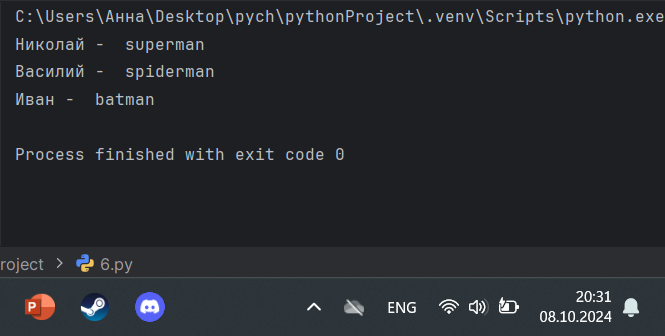
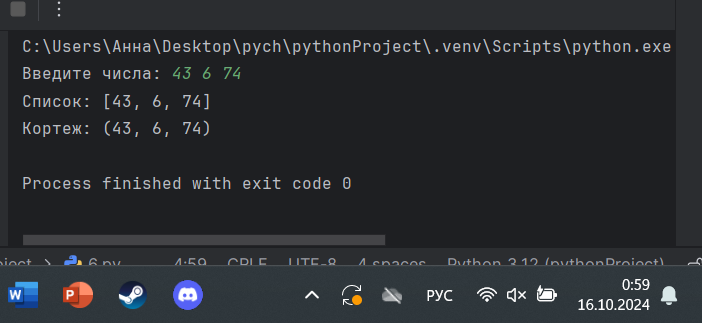
Шестой коммит

diff --git a/9.py b/9.py
@@ -1,15 +1,10 @@
-def superset(set_1, set_2):
-    if set_1 > set_2:
-        print(f'Объект {set_1} является чистым супермножеством')
-    elif set_1 == set_2:
-        print(f'Множества равны')
-    elif set_1 == set_2:
-        print(f'Объект {set_2} является чистым супермножеством')
-    else:
-        print('Супермножеств не обнаружено')
+line = input("Введите последовательность чисел: ")
+while len(line)<=15:
+    print("нужно минимум 15 символов.")
+    line = input("Введите последовательность чисел: ")
+def top_3_numbers(line):
+    line = list(map(int, line))
+    my_dict = {x: line.count(x) for x in range(10)}
+    print(my_dict)
 
-if __name__ == '__main__':
-    superset({1,8,3,5}, {3,5})
-    superset({1, 8, 3, 5}, {5, 3, 8, 1})
-    superset({3, 5}, {5, 3, 8, 1})
-    superset({90, 100}, {3, 5})
+top_3_numbers(line)

diff --git a/7.py b/7.py
@@ -1,5 +1,15 @@
-a = [-25.8, 86, 12.5, -56, 73.2, 0, 43, -91.5, 65.9, -7]
-a.sort()
-print('Отсортированный список:\n', a)
-a.pop(0)
-print('Отсортированный список без наименьшего элемента:\n', a)
+def tuple_remove(my_tuple, ch):
+    if ch in my_tuple:
+        my_tuple.remove(ch)
+    result_tuple = tuple(my_tuple)
+    print(result_tuple)
+
+if __name__ == "__main__":
+    x = input("Входные данные: ")
+    input_list = []
+    for k in x:
+        if k.isdigit():
+            input_list.append(int(k))
+    ch = input_list[len(input_list)-1]
+    input_list.pop()
+    tuple_remove(input_list, ch)

diff --git a/8.py b/8.py
@@ -1,11 +1,10 @@
-from random import randint
+line = input("Введите последовательность чисел: ")
+while len(line)<=15:
+    print("нужно минимум 15 символов.")
+    line = input("Введите последовательность чисел: ")
+def top_3_numbers(line):
+    line = list(map(int, line))
+    my_dict = {x: line.count(x) for x in range(10)}
+    print(my_dict)
 
-def list_maker():
-    a = [randint(1, 100)] * randint(3, 10)
-    return a
-
-if __name__ == '__main__':
-    result = []
-    for i in range(randint(1, 5)):
-        result.append(list_maker())
-    print(result)
+top_3_numbers(line)

diff --git a/1.py b/1.py
@@ -1,4 +1,16 @@
-set_1 = {'White', 'Black', 'Red', 'Pink'}
-set_2 = {'Red', 'Green', 'Blue', 'Red'}
+request = int(input('Введите номер кабинета: '))
 
-print(set_1 - set_2)
+dictionary = {
+    101: {'key': 1234, 'access': True},
+    102: {'key': 1337, 'access': True},
+    103: {'key': 8943, 'access': True},
+    104: {'key': 5555, 'access': False},
+    None: {'key': None, 'access': False},
+}
+
+response = dictionary.get(request)
+if not response:
+    response = dictionary[None]
+key = response.get('key')
+acess = response.get('access')
+print(key, acess)

diff --git a/5.py b/5.py
@@ -1,6 +1,8 @@
-def useless(lst):
-    return max(lst) / len(lst)
+def tuple_sort(tpl):
+    if not all(isinstance(elm, int) for elm in tpl):
+        return tpl
+    return tuple(sorted(tpl))
 
-print(useless([3, 5, 7, 33]))
-print(useless([-12.5, 54, 77.3, 0, -36, 98.2, -63, 21.7, 47, -89.6]))
-print(useless([-25.8, 86, 12.5, -56, 73.2, 0, 43, -91.5, 65.9, -7]))
+if __name__ == '__main__':
+    print(tuple_sort((5, 5, 3, 1, 9)))
+    print(tuple_sort((5, 5, 2.1, "1", 9)))

diff --git a/10.py b/10.py
@@ -1,2 +1,14 @@
-my_list = [2,5,8,3]
-print(my_list[::-1])
+def tuple_remove(my_tuple):
+    for i in range(len(my_tuple)):
+        if i in my_tuple:
+            my_tuple.remove(i)
+    result_tuple = tuple(my_tuple)
+    print(result_tuple)
+
+if __name__ == "__main__":
+    x = input("Входные данные: ")
+    input_list = []
+    for k in x:
+        if k.isdigit():
+            input_list.append(int(k))
+    tuple_remove(input_list)

diff --git a/6.py b/6.py
@@ -1,7 +1,4 @@
-superheroes = ['superman', 'spiderman', 'batman']
-
-nikolay, vasiliy, ivan = superheroes
-
-print('Николай - ', nikolay)
-print('Василий - ', vasiliy)
-print('Иван - ', ivan)
+user_input = input("Введите числа: ")
+numbers_list = [int(num) for num in user_input.split()]
+numbers_tuple = tuple(numbers_list)
+print(f"Список: {numbers_list} \nКортеж: {numbers_tuple}")

diff --git a/2.py b/2.py
@@ -1,5 +1,10 @@
-a = set('abcdefg')
-print(a)
-for i in range(1, 5):
-    a.add(i)
-print(a)
+from pprint import pprint
+
+my_dict = {'first': 'so easy'}
+
+def dict_maker(**kwargs):
+    my_dict.update(**kwargs)
+
+dict_maker(a1=1, a2=20, a3=54, a4 =13)
+dict_maker(name='Михаил', age=31, weight=70, eyes_color='blue')
+pprint(my_dict)

diff --git a/4.py b/4.py
@@ -1,2 +1,8 @@
-a = [12, 54, 32, 57, 843, 2346, 765, 75, 25, 234, 756, 23]
-print((a[2:6]))
+def personal_info(name, age, company='unnamed'):
+    print(f"Имя: {name} Возраст: {age} Компания: {company}")
+
+tom = ("Григорий", 22)
+personal_info(*tom)
+
+bob = ("Георгий", 41, "Yandex")
+personal_info(*bob)

diff --git a/3.py b/3.py
@@ -1,8 +1,4 @@
-def replace(input_list):
-    mempory = input_list[0]
-    input_list[0] = input_list[-1]
-    input_list[-1] = mempory
-
-    return input_list
-
-print(replace([1, 2, 3, 4, 5]))
+input_string = 'HelloWorld'
+result = tuple(input_string)
+print(result)
+print(list(result))
